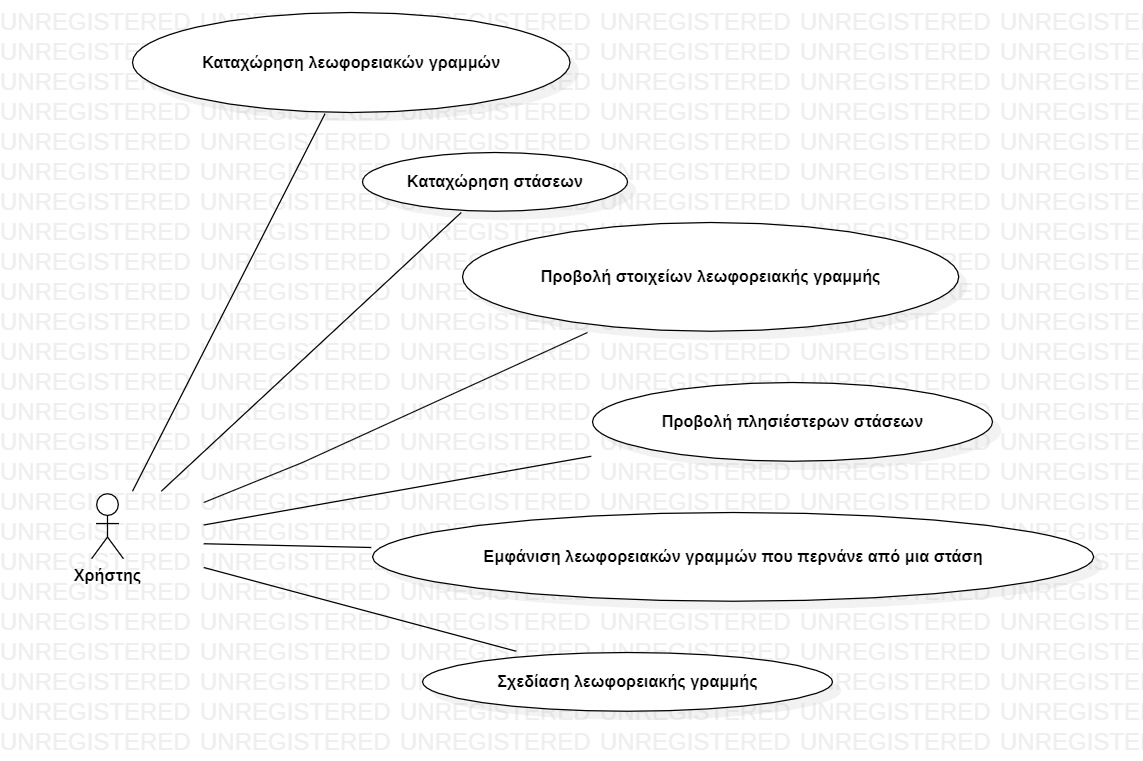
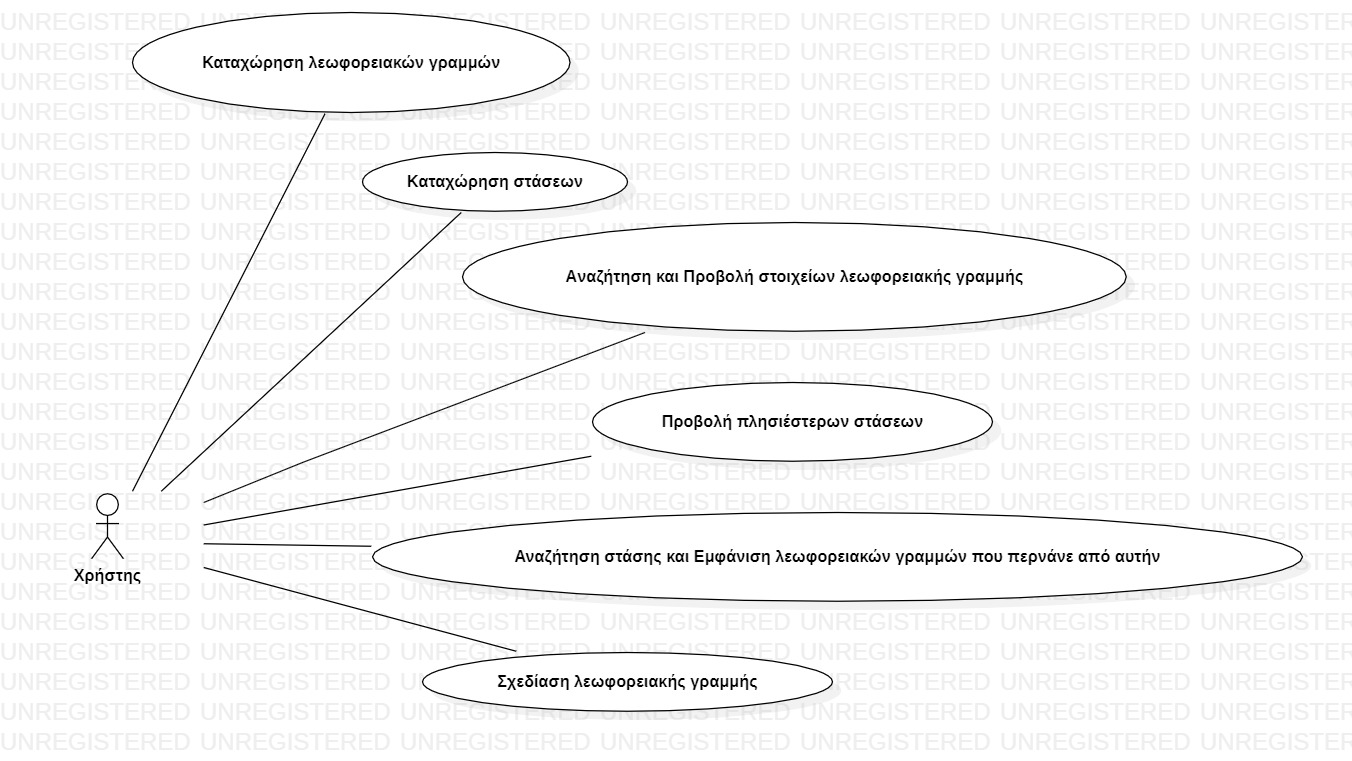
UC descriptions

diff --git a/requirements/UC6_description.md b/requirements/UC6_description.md
@@ -1,0 +1,13 @@
+# Περίπτωση χρήσης Σχεδίαση λεωφορειακής γραμμής
+## Βασική ροή
+1) Ο χρήστης εισάγει την αφετηρία και τον προορισμό.
+2) Το σύστημα ψάχνει κάθε λεωφορείο που περνά από την στάση.
+3) Αν το λεωφορείο περνά από τον προορισμό το σύστημα επιστρέφει τον προορισμό.
+4)Αν κανένα λεωφορείο δεν περνά απ το προορισμό τότε για κάθε λεωφορείο επαναλαμβάνουμε τα βήματα 1 με 4 με αφετηρία τη στάση που περνά το κάθε λεωφορείο.
+5)Επιστρέφεις την  διαδρομή 
+## Εναλακτική ροή
+1α)Η αφετηρία η ο προορισμός δεν υπάρχουν
+ 1) Το σύστημα εμφανίζει κατάληλο μύνημα.
+## Εναλακτική ροή
+1α)Δεν υπάρχει διαδρομή
+ 1) Το σύστημα εμφανίζει κατάληλο μύνημα.

diff --git a/requirements/Software_Requirements.md b/requirements/Software_Requirements.md
@@ -1,6 +1,7 @@
 # Ανάλυση απαιτήσεων
-1) Καταχώριση λεωφορειακών γραμμών και στάσεων
-2) Παρουσίαση στοιχείων λεοφωρειακής γραμμής
-3) Ενημέρωση για τις πλησιέστερες στάσεις βάση της θέσης τους
-4) Κατά την επιλογή μιας στάσης εμφάνιση λεοφωρειακών γραμμών που περνάνε από αυτές
-5) Σχεδίαση λεωφορειακής γραμμής
+1) Καταχώριση λεωφορειακών γραμμών  
+2) Καταχώρηση στάσεων
+3) Προβολή στοιχείων λεοφωρειακής γραμμής
+4) Προβολή  πλησιέστερων στάσεων 
+5) Εμφάνιση λεωφωρειακών γραμμών που περνάνε από μια στάση
+6) Σχεδίαση λεωφορειακής γραμμής

diff --git a/requirements/UC5_description.md b/requirements/UC5_description.md
@@ -1,0 +1,10 @@
+# Περίπτωση χρήσης Αναζήτητσης στάσης και εμφάνιση λεωφορειακών γραμμών που περνάνε απ αυτήν
+## Βασική ροή
+1) Ο χρήστης εισάγει την στάση.
+2) Το σύστημα εμφανίζει τα δρομολόγια μαζί με τα λεωφορεία.
+## Εναλακτική ροή
+1α) Η στάση δε υπάρχει
+   1)Το σύστημα εμφανίζει κατάληλο μύνημα.
+## Εναλακτική ροή
+1α) Η στάση δεν έχει δρομολόγια
+   1)Το σύστημα εμφανίζει κατάληλο μύνημα.

diff --git a/requirements/UC3_description.md b/requirements/UC3_description.md
@@ -1,0 +1,7 @@
+# Περίπτωση χρήσης Αναζήτηση και Προβολή στάσεων λεοφωρειακής γρμμής
+## Βασική ροή
+1) Ο χρήστη εισάγει λεωφορειακή γραμμή.
+2) Το σύστημα εμφανίζει τις στάσεις της λεωφορειακής γραμμής.
+## Εναλακτική ροή
+2α) Δεν υπάρχει η λεωφορειακη γραμμή
+1) Το σύστημα εμφανίζει κατάλληλο μύνημα. 

diff --git a/requirements/UC1_description.md b/requirements/UC1_description.md
@@ -1,0 +1,4 @@
+# Περίπτωση χρήσης Καταχώρηση Λεωφορειακών Γραμμών
+1) Ο χρήστης εισάγει τα στοιχεία της λεωφορειακής γραμμής
+2) Επειτα καταχωρεί τα δρομολόγια της γραμμής
+3) Για κάθε δρομολόγιο ο χρήστης συμπληρώνει τις στάσεις και αυτές καταχωρόυνται στα δρομολόγια

diff --git a/requirements/UC4_description.md b/requirements/UC4_description.md
@@ -1,0 +1,4 @@
+# Περίπτωση χρήσης Προβολή πλησιέστερων στάσεων
+## Βασική ροή
+1) Λαμβάνεται η τοποθεσία του χρήστη.
+2) Το σύστημα επιστρέφει τις 3 πιο κοντινές στάσεις.

diff --git a/requirements/UC2_description.md b/requirements/UC2_description.md
@@ -1,0 +1,2 @@
+# Περίπτωση χρήσης Καταχώρηση Στάσεων
+1) Ο χρήστης καταχωρεί τις στάσεις.
